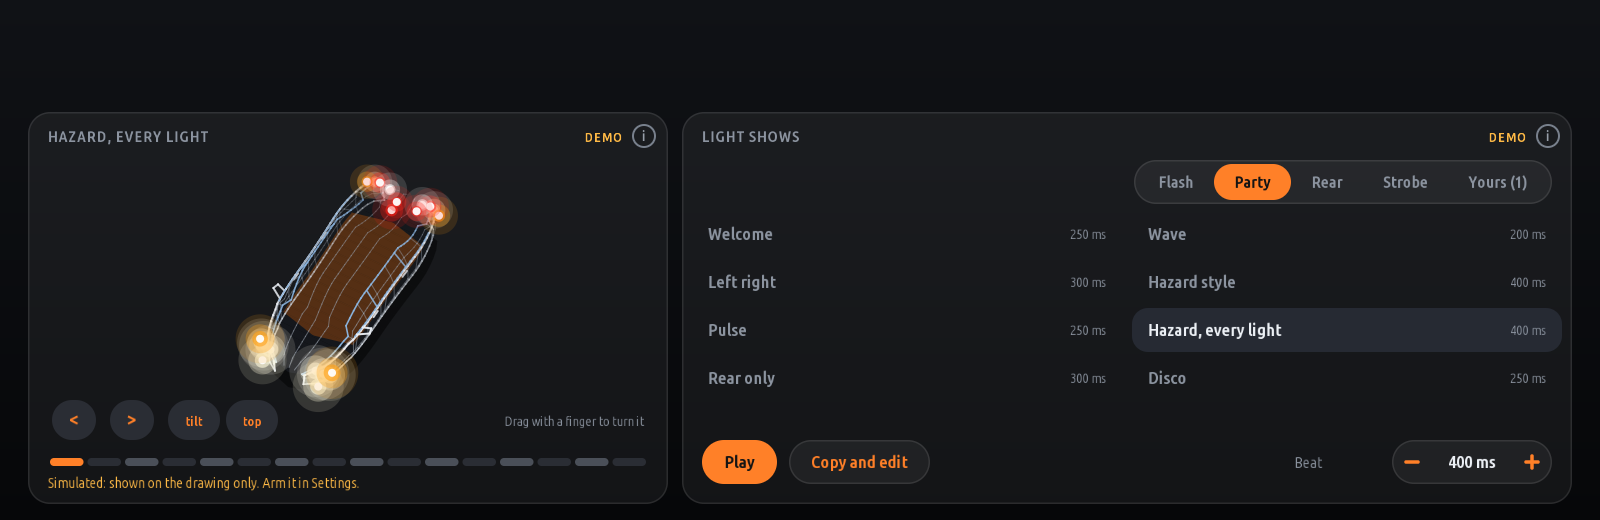
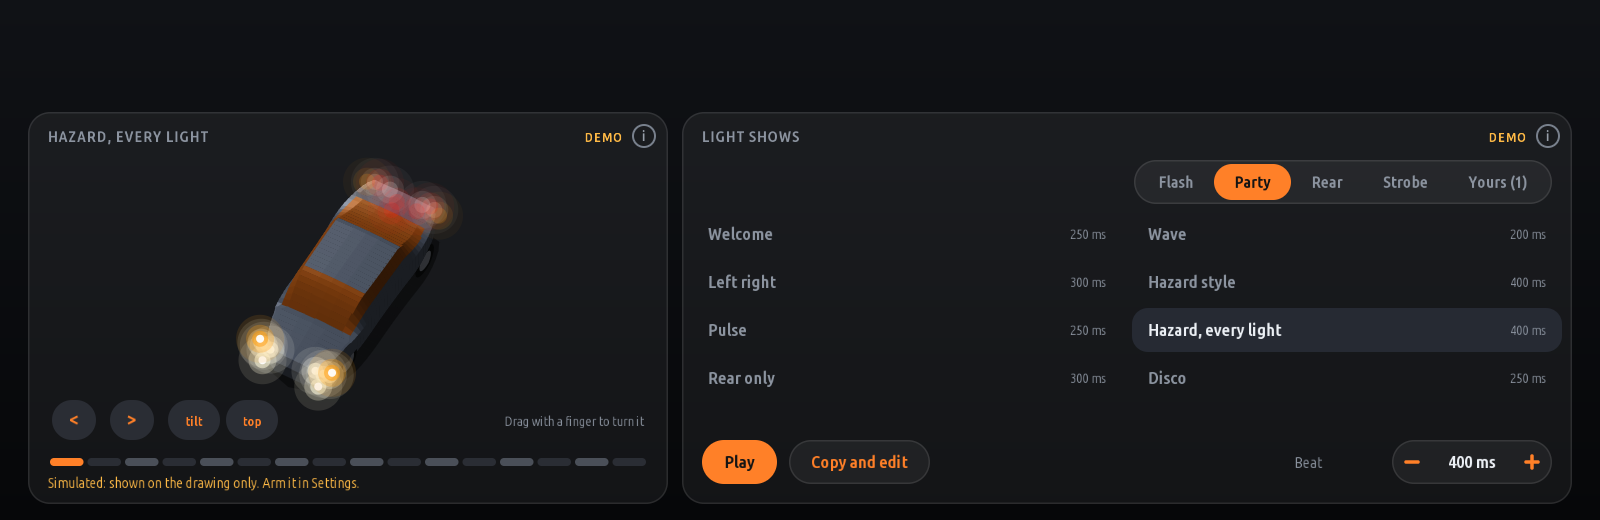
Lights 0.4.1: the car on Shows as a solid shaded body
The outside is panels joined from the body's sections, nose to tail,
each shaded by how much it faces a light above the eye and drawn far
ones first: paint, dark glass tinted with the show's cabin colour, the
underside, the wheels. Lit lamps glow, those on the far side fainter.

Changed region(s): [[0.1562, 0.3077, 0.2812, 0.7692]]

diff --git a/apps/p96_lights/carview.js b/apps/p96_lights/carview.js
@@ -151,11 +151,11 @@ function drawCarView(cv, t, box, lights, colourOf, opts) {
     const S = (p) => { const q = pr([p[0] - xm, p[1], p[2]]); return [cx + (o.rhd ? -q[0] : q[0]) * k, cy + (q[1] + 0.55 * Math.sin(pitch * Math.PI / 180)) * k, q[2]]; };
     // its shadow on the ground, then the body's mass: the plan at the belt filled dark
     const strip = (f, z, c) => { for (let i = 0; i < 24; i++) { const xa = xf - (xf - xr) * i / 24, xb = xf - (xf - xr) * (i + 1) / 24; cv.quad([S([xa, f(xa), z]), S([xa, -f(xa), z]), S([xb, -f(xb), z]), S([xb, f(xb), z])].map((q) => [q[0], q[1]]), c); } };
+    if (ext) { strip((x) => plan(x) * 1.12, 0, [0, 0, 0, 110]); return drawOutside(cv, S, o, (v) => { const q = pr(v); return [o.rhd ? -q[0] : q[0], q[1], q[2]]; }); }
     strip((x) => plan(x) * 1.06, 0, [0, 0, 0, 120]);
     strip(plan, 0.5, [22, 25, 30, 235]);
     // the cabin's floor a shade lighter, what is inside filled, so the lights' places read against them
-    strip((x) => (ext && !inCabin(x) ? 0 : plan(x) * 0.9), ext ? 0.55 : 0.1, ext && o.cabin ? [o.cabin[0], o.cabin[1], o.cabin[2], 70] : [27, 30, 36, 255]);
-    if (ext) return drawOutside(cv, S, o, near0(S));
+    strip((x) => plan(x) * 0.9, 0.1, [27, 30, 36, 255]);
     INSIDE.forEach(([pts, c]) => cv.quad(pts.map((q) => { const r = S(q); return [r[0], r[1]]; }), c));
     const segs = [];
     LINES.forEach(([pts, kind]) => { const q = pts.map(S); for (let i = 1; i < q.length; i++) segs.push([q[i - 1], q[i], kind]); });
@@ -217,29 +217,69 @@ function lampPoints(fn) {
     (LAMP3D[fn] || []).forEach((p) => { out.push(p); if (!SIDED[fn] && p[1]) out.push([p[0], -p[1], p[2]]); });
     return out;
 }
-const near0 = (S) => { const a = S([L, 0, 0.6])[2], b = S([-L, 0, 0.6])[2]; return [Math.min(a, b), Math.max(a, b)]; };
-
-/** The outside: the body's lines, every lamp a dim dot, the lit ones (o.lamps: { fn: rgb }) glowing. */
-function drawOutside(cv, S, o, dr) {
-    const segs = [];
-    EXT.forEach(([pts, kind]) => { const q = pts.map(S); for (let i = 1; i < q.length; i++) segs.push([q[i - 1], q[i], kind]); });
-    let d0 = Infinity, d1 = -Infinity;
-    segs.forEach(([a, b]) => { d0 = Math.min(d0, a[2], b[2]); d1 = Math.max(d1, a[2], b[2]); });
-    segs.sort((a, b) => (a[0][2] + a[1][2]) - (b[0][2] + b[1][2]));
-    const near = (d) => (d - d0) / Math.max(1e-6, d1 - d0);
-    segs.forEach(([a, b, kind]) => {
-        const n = near((a[2] + b[2]) / 2), c = COL[kind === 'mesh' ? 'mesh' : kind];
-        const al = (kind === 'mesh' ? 0.22 : 0.4) + (kind === 'mesh' ? 0.4 : 0.6) * n;
-        cv.line(a[0], a[1], b[0], b[1], WID[kind] || 1.4, [c[0], c[1], c[2], Math.round(255 * al)]);
+/*
+ * The outside as a solid body: the sections of section() from nose to tail joined into panels, each shaded by how
+ * much it faces a light above and to the left of the eye, far ones first; the glass dark (tinted with the cabin's
+ * colour when a show gives one), the wheels, then every lamp a dim dot and the lit ones glowing, those on the far side
+ * of the car fainter. turn(v): a direction in the car -> the same seen (x right, y down, z toward the eye).
+ */
+const PAINT = [68, 76, 90], GLASS = [16, 22, 32], TYRE = [14, 15, 17], RIM = [120, 126, 136];
+const LIGHT = (() => { const v = [-0.35, -0.75, 0.55], n = Math.hypot(v[0], v[1], v[2]); return v.map((q) => q / n); })();
+function bodyMesh() {
+    const N = 44, out = [], st = [];
+    for (let i = 0; i <= N; i++) { const x = L * 0.985 - (L * 1.97) * i / N; st.push(section(x).map(([y, z]) => [x, y, z])); }
+    const M = st[0].length;
+    for (let i = 0; i < N; i++) for (let j = 0; j < M - 1; j++) {
+        const xm = (st[i][j][0] + st[i + 1][j][0]) / 2, glass = inCabin(xm) && (j === 3 || j === 8);
+        const roofGlass = inCabin(xm) && j >= 4 && j <= 7 && (xm > 0.55 || xm < -0.85);           // the screens front and back
+        out.push({ pts: [st[i][j], st[i][j + 1], st[i + 1][j + 1], st[i + 1][j]], kind: glass || roofGlass ? 'glass' : 'paint' });
+    }
+    // the underside, and the nose and tail closed
+    for (let i = 0; i < N; i++) out.push({ pts: [st[i][M - 1], st[i][0], st[i + 1][0], st[i + 1][M - 1]], kind: 'under' });
+    [0, N].forEach((i) => { const c = st[i].reduce((a, p) => [a[0] + p[0] / M, a[1] + p[1] / M, a[2] + p[2] / M], [0, 0, 0]);
+        for (let j = 0; j < M; j++) out.push({ pts: [c, st[i][j], st[i][(j + 1) % M]], kind: 'paint' }); });
+    // the wheels: a disc each corner, just outside the body
+    [[1.42, 1], [1.42, -1], [-1.38, 1], [-1.38, -1]].forEach(([x, s2]) => {
+        const y = s2 * (plan(x) * 1.005), r = 0.34, ring = [], hub = [];
+        for (let a = 0; a < 18; a++) { const q = a / 18 * Math.PI * 2; ring.push([x + r * Math.cos(q), y, 0.34 + r * Math.sin(q)]); hub.push([x + r * 0.6 * Math.cos(q), y + s2 * 0.012, 0.34 + r * 0.6 * Math.sin(q)]); }
+        out.push({ pts: ring, kind: 'tyre', n: [0, s2, 0] }, { pts: hub, kind: 'rim', n: [0, s2, 0] });
     });
-    const lit = o.lamps || {};
+    return out;
+}
+const MESH = bodyMesh();
+const sub = (a, b) => [a[0] - b[0], a[1] - b[1], a[2] - b[2]];
+const crs = (a, b) => [a[1] * b[2] - a[2] * b[1], a[2] * b[0] - a[0] * b[2], a[0] * b[1] - a[1] * b[0]];
+
+function drawOutside(cv, S, o, turn) {
+    const faces = MESH.map((f) => {
+        const q = f.pts.map(S), c = f.pts.reduce((a, p) => [a[0] + p[0] / f.pts.length, a[1] + p[1] / f.pts.length, a[2] + p[2] / f.pts.length], [0, 0, 0]);
+        let n = f.n || crs(sub(f.pts[1], f.pts[0]), sub(f.pts[f.pts.length - 1], f.pts[0]));
+        const out = sub(c, [c[0] * 0.3, 0, 0.6]);                       // outward: away from the car's middle
+        if (!f.n && n[0] * out[0] + n[1] * out[1] + n[2] * out[2] < 0) n = n.map((v) => -v);
+        const nl = Math.hypot(n[0], n[1], n[2]) || 1, nv = turn(n.map((v) => v / nl));
+        return { q, d: q.reduce((a, p) => a + p[2], 0) / q.length, f, nv };
+    }).sort((a, b) => a.d - b.d);
+    const cab = o.cabin;
+    faces.forEach(({ q, f, nv }) => {
+        if (nv[2] < -0.05 && f.kind !== 'tyre' && f.kind !== 'rim') return;                  // facing away
+        const lam = Math.max(0, nv[0] * LIGHT[0] + nv[1] * LIGHT[1] + nv[2] * LIGHT[2]);
+        const spec = Math.pow(lam, 18) * 0.6, shade = 0.38 + 0.75 * lam;
+        let base = f.kind === 'glass' ? (cab ? cab.map((v, i) => GLASS[i] * 0.4 + v * 0.45) : GLASS) : f.kind === 'tyre' ? TYRE : f.kind === 'rim' ? RIM : f.kind === 'under' ? [10, 11, 13] : PAINT;
+        const col = base.map((v) => Math.max(0, Math.min(255, Math.round(v * shade + 255 * spec * (f.kind === 'glass' ? 0.8 : 0.5)))));
+        // each panel a hair larger than itself, so no seam of the background shows between neighbours
+        const mx = q.reduce((a, p) => a + p[0], 0) / q.length, my = q.reduce((a, p) => a + p[1], 0) / q.length;
+        const pts = q.map((p) => { const dx = p[0] - mx, dy = p[1] - my, l = Math.hypot(dx, dy) || 1; return [p[0] + dx / l * 0.8, p[1] + dy / l * 0.8]; }), c4 = [col[0], col[1], col[2], 255];
+        if (pts.length === 4) cv.quad(pts, c4); else cv.fill(pts, c4);
+    });
+    // the lamps: a dim dot each, the lit ones glowing (on the far side, behind the body, fainter)
+    const mid = S([0, 0, 0.6])[2], lit = o.lamps || {};
     Object.keys(LAMP3D).forEach((fn) => lampPoints(fn).forEach((p) => {
-        const q = S(p), n = near(q[2]), c = lit[fn];
-        if (!c) { cv.circle(q[0], q[1], 3, [120, 126, 136, Math.round(60 + 120 * n)]); return; }
-        [[22, 0.14], [13, 0.3], [7, 0.6]].forEach(([r, a]) => cv.circle(q[0], q[1], r * (0.7 + 0.5 * n), [c[0], c[1], c[2], Math.round(255 * a)]));
-        cv.circle(q[0], q[1], 4, [255, 255, 255, 240]);
+        const q = S(p), back = q[2] < mid - 0.3, c = lit[fn];
+        if (!c) { if (!back) cv.circle(q[0], q[1], 2.5, [150, 156, 166, 150]); return; }
+        const f = back ? 0.35 : 1;
+        [[24, 0.12], [14, 0.28], [8, 0.55]].forEach(([r, a]) => cv.circle(q[0], q[1], r, [c[0], c[1], c[2], Math.round(255 * a * f)]));
+        if (!back) cv.circle(q[0], q[1], 4, [255, 255, 255, 240]);
     }));
-    void dr;
 }
 
 module.exports = { drawCarView, MAX_PITCH, MAX_ROLL, LAMP3D };
